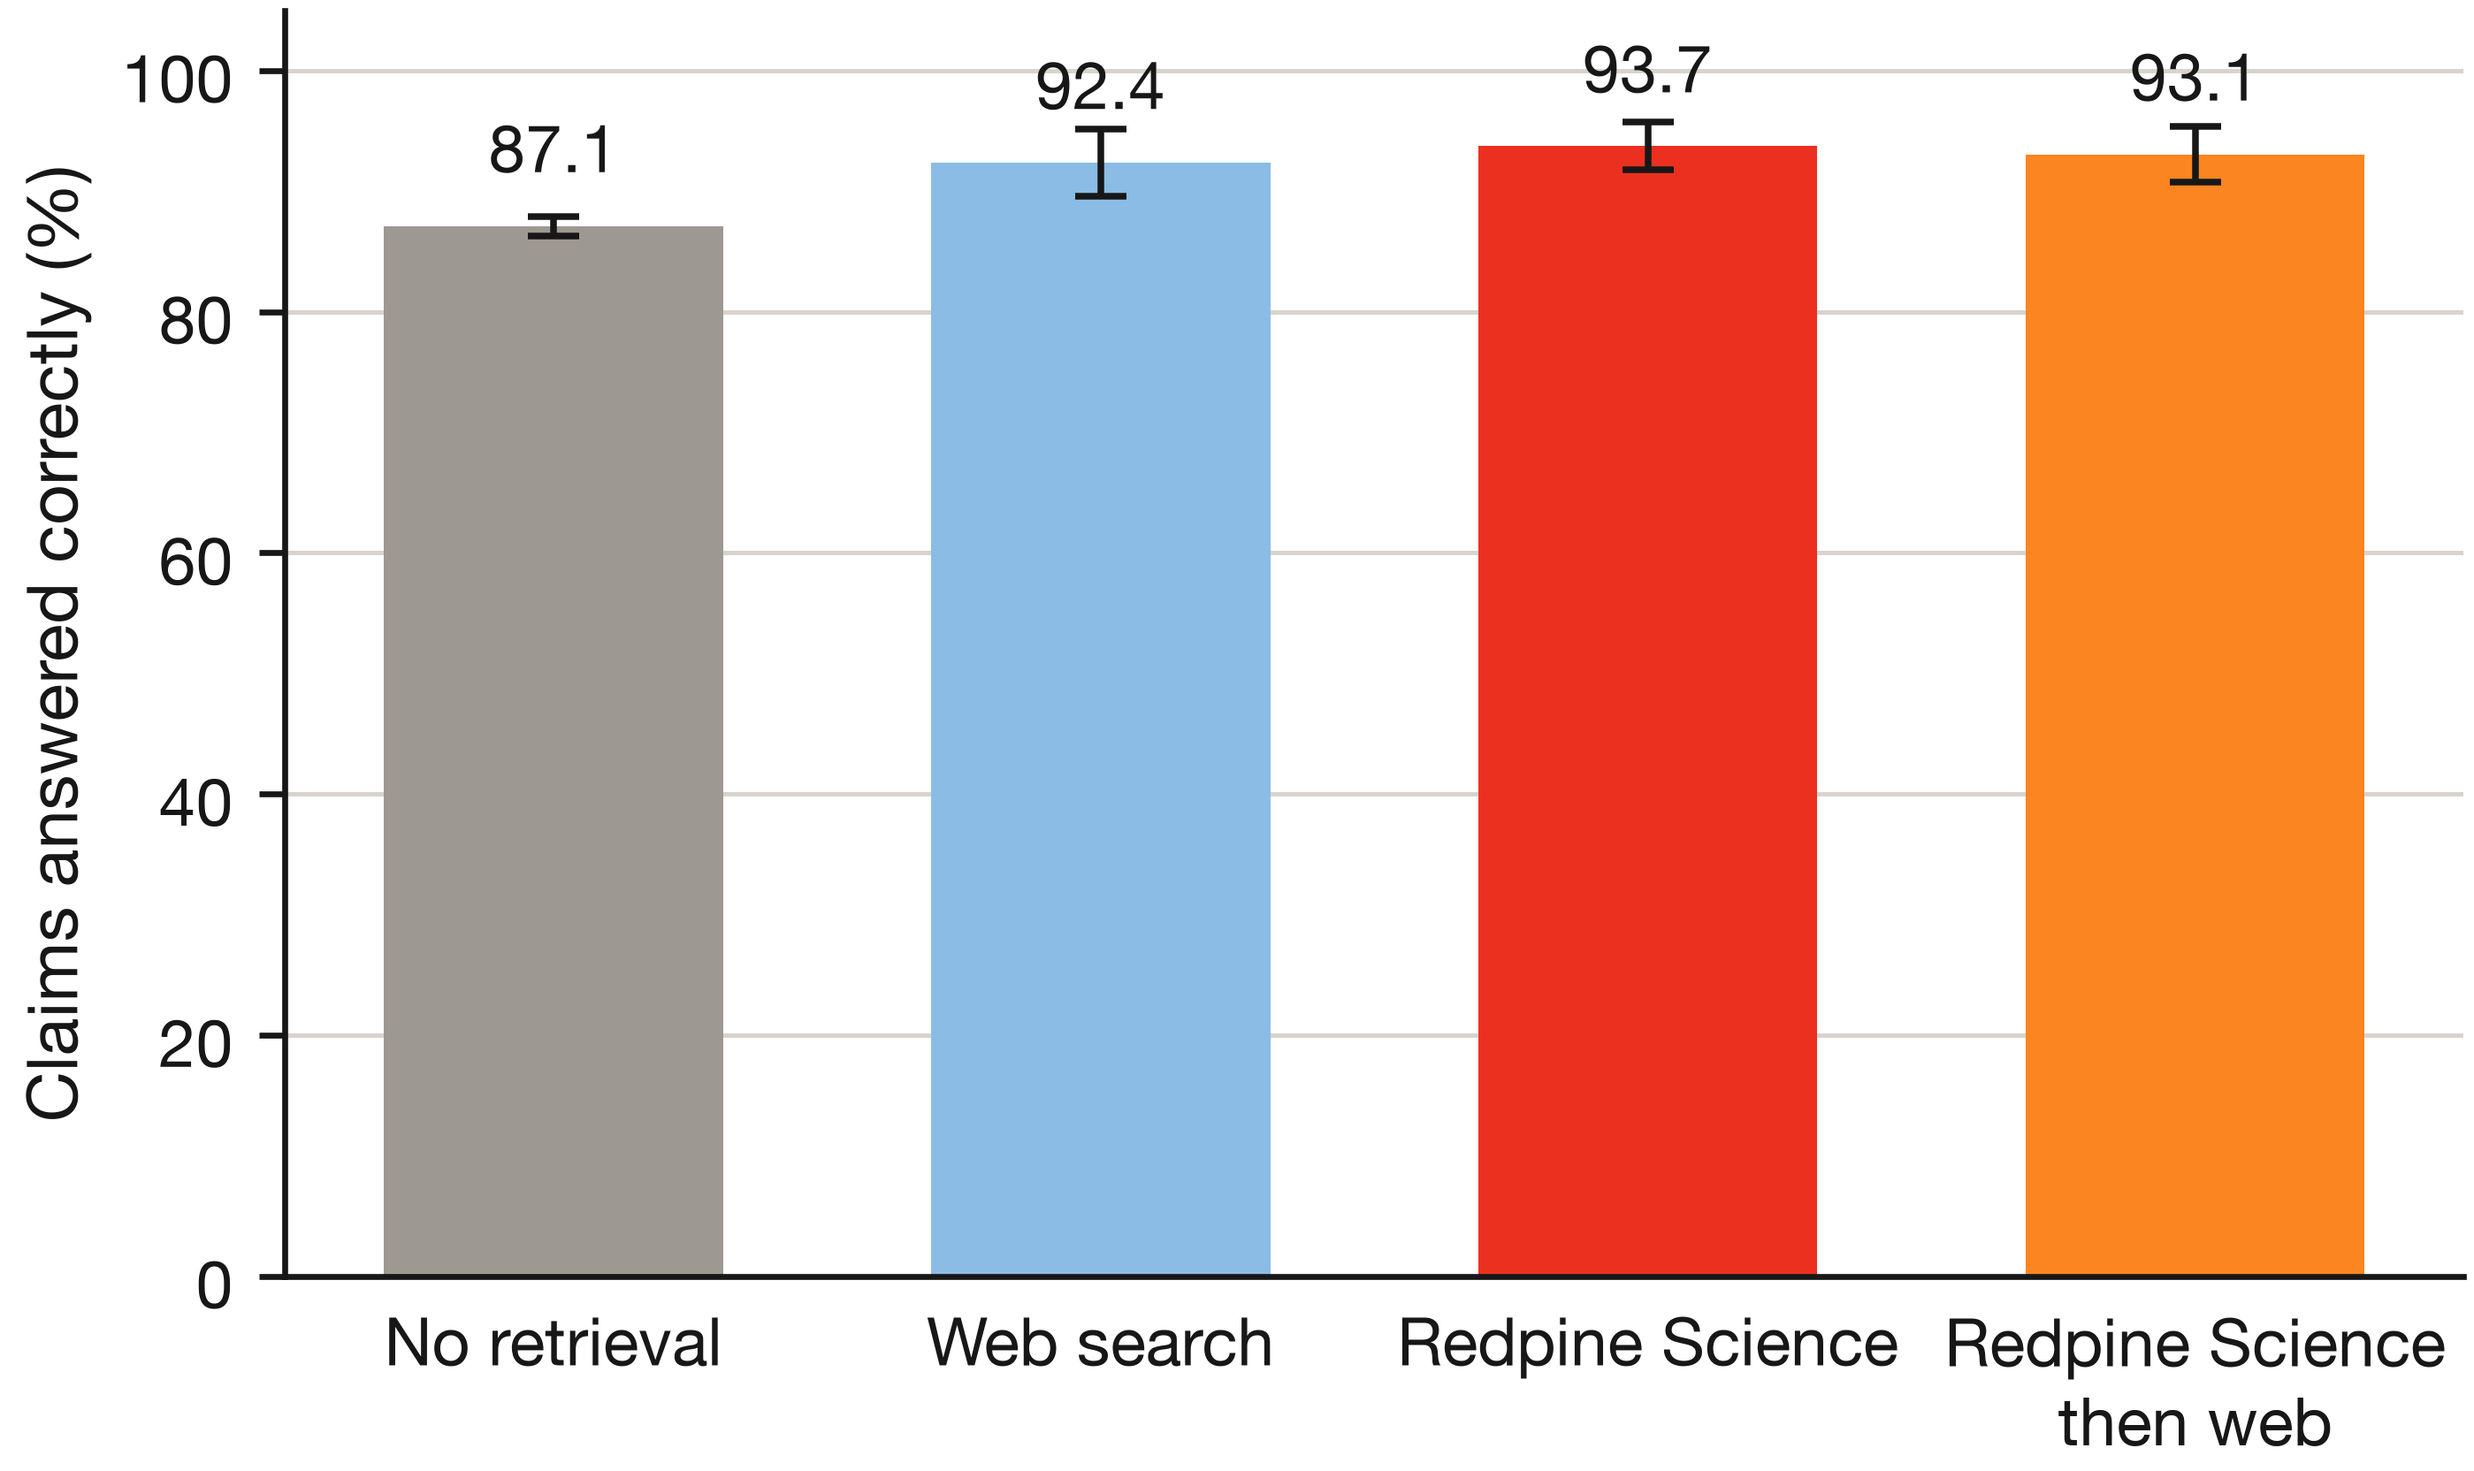
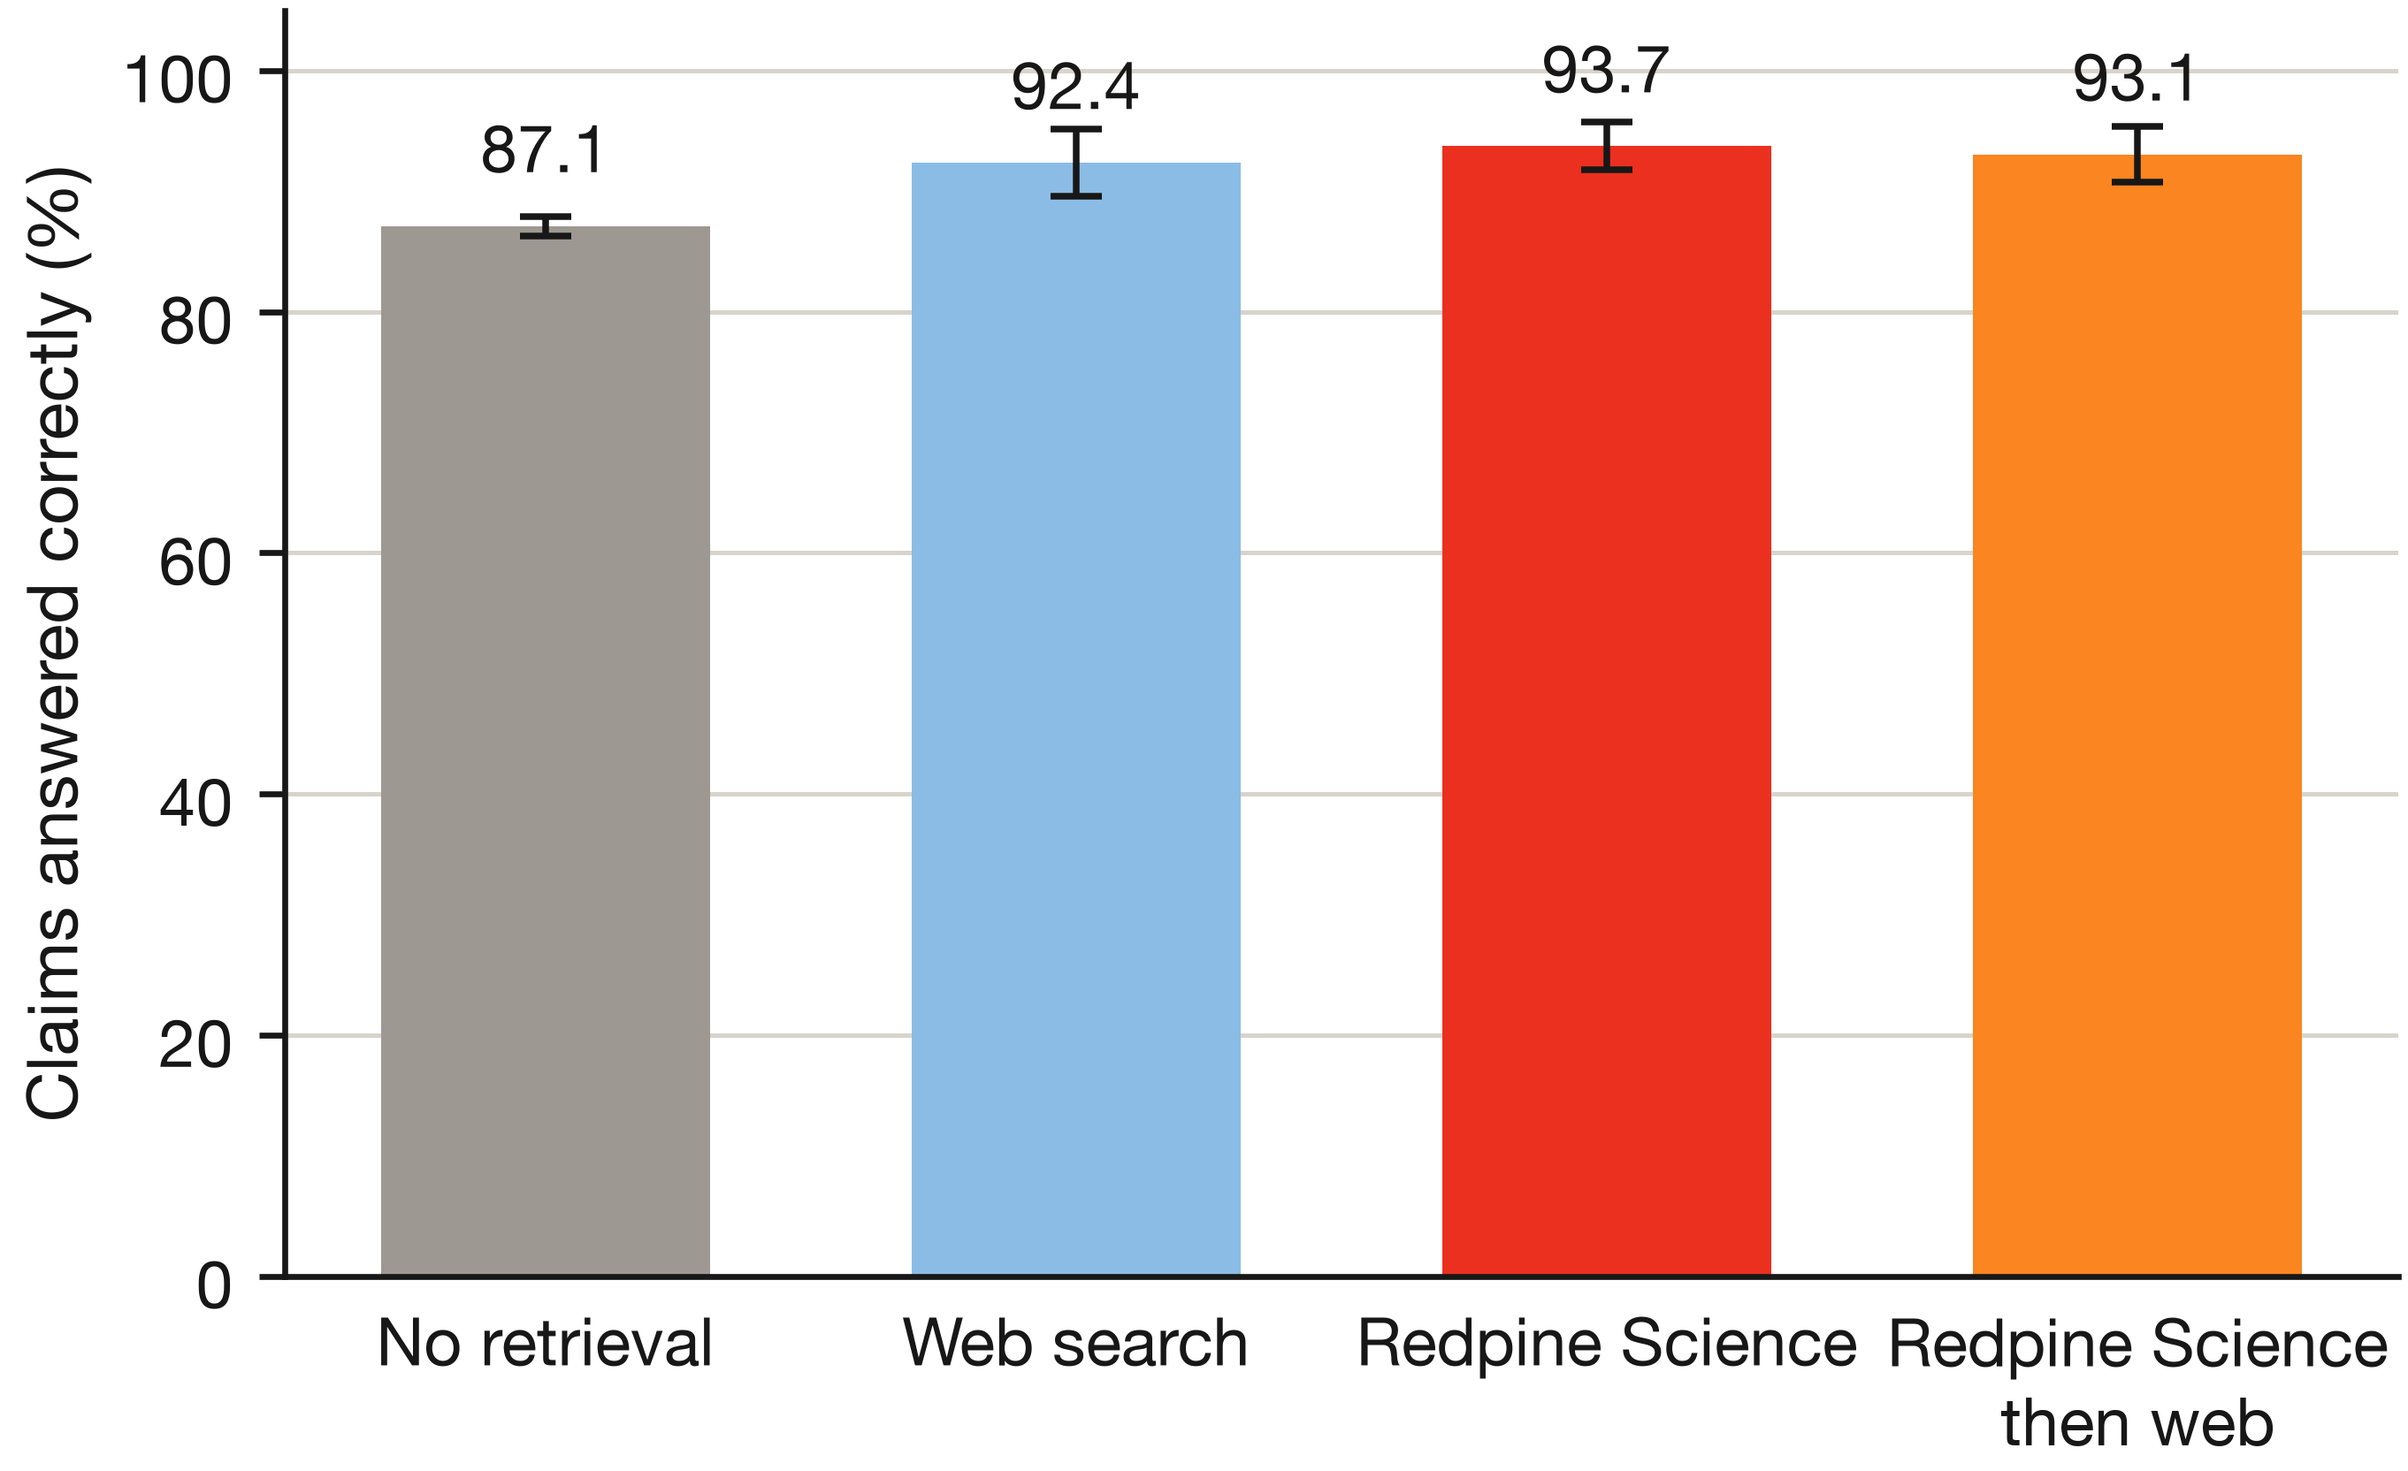
build(figures): set the measured text width, 372 pt, and regenerate

diff --git a/figures/redpine_style.py b/figures/redpine_style.py
@@ -60,11 +60,10 @@ ANNOTATION = DARK_RED
 
 # === Geometry ===============================================================
 # Width of the text block in the Springer Nature sn-jnl class, in inches.
-# CHECK THIS ONCE: put \the\textwidth in main.tex, compile, and read the value
-# off the PDF (it prints in points; divide by 72.27 for inches). Then set it
-# here and include figures at [width=\linewidth] so nothing is ever rescaled.
-# A figure authored at the true text width keeps the font sizes below exact.
-TEXT_WIDTH_IN = 5.3
+# Measured 2026-09-22 with \the\textwidth in main.tex: 372.0 pt / 72.27 = 5.147 in.
+# Include figures at [width=\linewidth] so nothing is ever rescaled; a figure
+# authored at the true text width keeps the font sizes below exact.
+TEXT_WIDTH_IN = 372.0 / 72.27
 
 # Golden-ratio-ish default. Wider than tall reads better in a single column and
 # leaves room for value labels above the bars.

diff --git a/figures/README.md b/figures/README.md
@@ -29,15 +29,13 @@ Each script writes two files beside itself: a `.pdf` for the document and a
 \end{figure}
 ```
 
-## Before the first compile
+## Text width
 
-Set `TEXT_WIDTH_IN` in `redpine_style.py` to the document's real text width.
-Put `\the\textwidth` anywhere in `main.tex`, compile, and read the value off
-the page; it prints in points, so divide by 72.27 for inches. Authoring the
-figure at the true text width and including it at `width=\linewidth` means the
-PDF is never rescaled, which keeps the label sizes exactly as set here. If the
-figure is authored too narrow, LaTeX stretches it and every label grows with
-it, which is how a document ends up with a different font size in every figure.
+`TEXT_WIDTH_IN` in `redpine_style.py` is the document's measured text width,
+372.0 pt (`\the\textwidth`, 2026-09-22), or 5.147 in. Authoring the figure at
+that width and including it at `width=\linewidth` means the PDF is never
+rescaled, so the label sizes are exactly as set in the style module. If the
+class or its options change, measure again and update the constant.
 
 ## Conventions
 
